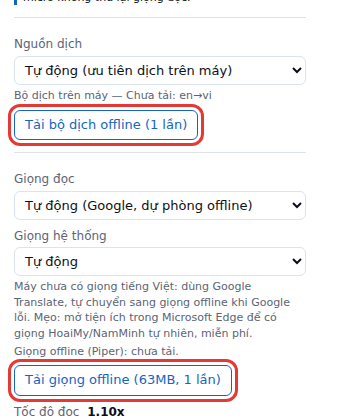
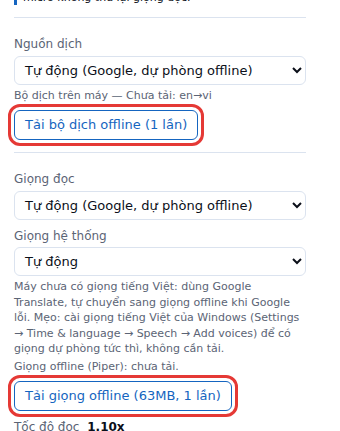
docs: refresh install screenshots for 0.4.4; shorter auto label, Windows voice tip

diff --git a/popup/popup.js b/popup/popup.js
@@ -49,7 +49,7 @@
     if (eng === 'google') hint = 'Google Translate TTS: không chính thức, có thể bị giới hạn tần suất; nếu bị chặn sẽ chuyển sang giọng offline (nếu đã tải).';
     else if (eng === 'piper') hint = 'Giọng Piper tiếng Việt chạy hoàn toàn trên máy: không cần mạng, không giới hạn. Cần tải 1 lần.';
     else if (eng === 'system' && !hasVoices) hint = 'Không tìm thấy giọng tiếng Việt trên hệ thống: dùng giọng offline (nếu đã tải) hoặc chrome.tts.';
-    else if (eng === 'auto' && !hasVoices) hint = 'Máy chưa có giọng tiếng Việt: dùng Google Translate, tự chuyển sang giọng offline khi Google lỗi. Mẹo: mở tiện ích trong Microsoft Edge để có giọng HoaiMy/NamMinh tự nhiên, miễn phí.';
+    else if (eng === 'auto' && !hasVoices) hint = 'Máy chưa có giọng tiếng Việt: dùng Google Translate, tự chuyển sang giọng offline khi Google lỗi. Mẹo: cài giọng tiếng Việt của Windows (Settings → Time & language → Speech → Add voices) để có giọng dự phòng tức thì, không cần tải.';
     else if (eng === 'auto' && hasVoices && !hasNatural) hint = 'Đọc bằng Google Translate. Khi Google tạm chặn sẽ chuyển ngay sang giọng có sẵn của máy (ô trên), không cần tải gì. Chọn "Giọng hệ thống" nếu muốn luôn dùng giọng của máy.';
     else if ((eng === 'auto' || eng === 'system') && hasNatural) hint = 'Đang dùng giọng Microsoft Natural của Edge (HoaiMy/NamMinh): tự nhiên, miễn phí, cần mạng. Chọn giọng khác ở ô trên nếu muốn.';
     $('voiceHint').textContent = hint;

diff --git a/popup/popup.html b/popup/popup.html
@@ -44,7 +44,7 @@
   <section>
     <label class="label" for="provider">Nguồn dịch</label>
     <select id="provider">
-      <option value="auto">Tự động (Google, dự phòng dịch trên máy)</option>
+      <option value="auto">Tự động (Google, dự phòng offline)</option>
       <option value="local">Dịch trên máy (Chrome, offline, không giới hạn)</option>
       <option value="google">Google Dịch (miễn phí)</option>
       <option value="youtube">YouTube (dịch có sẵn)</option>
